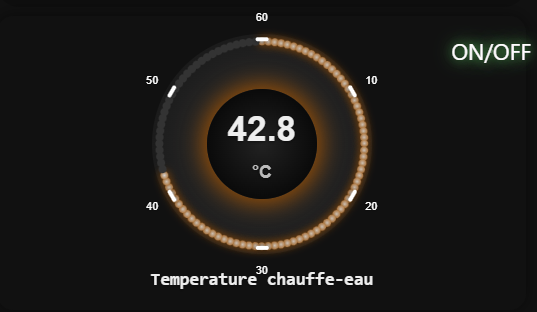
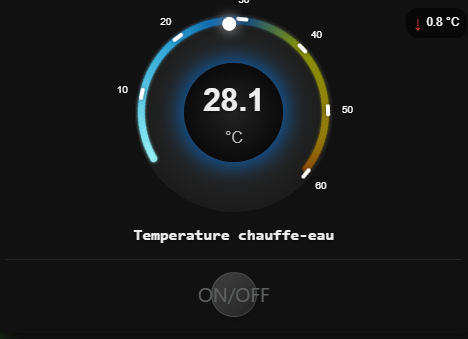
V2.6.0

diff --git a/custom-gauge-card.js b/custom-gauge-card.js
@@ -1,7 +1,14 @@
 /**
- * Custom Gauge Card v2.5.0
+ * Custom Gauge Card v2.6.0
  * Home Assistant custom card — LED gauge with arc control, bidirectional mode,
  * scale ticks, 4 buttons and full shadow support.
+ *
+ * Changelog v2.6 vs v2.5 (PR #20):
+ *   - NEW  led_display_mode: value | scale — `scale` keeps every LED lit with
+ *          the color of its position, a built-in cursor shows the value
+ *   - NEW  scale_marker, scale_marker_color, scale_marker_size, scale_marker_shape
+ *   - FIX  two dynamic markers on the same entity; unavailable markers hidden
+ *   - KEEP defaults render as 2.5
  *
  * Changelog v2.5 vs v2.4 (issue #19):
  *   - FIX  show_trend displayed nothing: the history websocket answer is keyed
@@ -51,7 +58,7 @@
 !function () {
   "use strict";
 
-  const CARD_VERSION = '2.5.0';
+  const CARD_VERSION = '2.6.0';
 
   // ── Themes ──────────────────────────────────────────────────────────────────
   const THEMES = {

diff --git a/README.md b/README.md
@@ -44,6 +44,11 @@ A custom card for Home Assistant that displays your sensors as an animated and i
 
 
 
+## What's new in v2.6
+
+- **Permanent color scale** — `led_display_mode: scale` keeps every LED lit with the color of its own position on the scale, and a built-in cursor shows the current value. Contributed by [Noxelot](https://github.com/Noxelot) in [PR #20](https://github.com/guiohm79/custom-gauge-card/pull/20). See [Permanent Color Scale](#permanent-color-scale-v26)
+- **Dynamic markers** — two markers can now track the same entity, and a marker whose entity is unavailable or non-numeric is hidden instead of staying at its last position
+
 ## What's new in v2.5
 
 - **Trend indicator fixed** — `show_trend: true` displayed nothing with recent Home Assistant versions; it now reads the history correctly ([issue #19](https://github.com/guiohm79/custom-gauge-card/issues/19))
@@ -80,6 +85,7 @@ A custom card for Home Assistant that displays your sensors as an animated and i
 - Dynamic shadow and lighting effects
 - Multi-entity alarms with four visual effects (pulsating shadow, blinking LEDs, blinking value, pulsating card border)
 - **Bidirectional display** for thermometer-style visualization with negative values
+- **Permanent color scale** with a value cursor (`led_display_mode: scale`)
 - Customizable themes (light, dark, custom)
 - Configurable arc span and start angle (`arc_sweep`, `arc_start`)
 
@@ -319,11 +325,50 @@ debounce_updates: true
 | `led_length` | number | `led_size × 2` | **v2.4:** `rect` only — radial length of the segments in pixels. Segments grow inward: their outer edge stays where round LEDs sit |
 | `led_corner_radius` | number | 1 | **v2.4:** `rect` only — corner rounding in pixels |
 | `leds_count` | number | 100 | Number of LEDs |
+| `led_display_mode` | string | `value` | **v2.6:** `value` lights the LEDs up to the current value; `scale` keeps them all lit as a permanent color scale, with a cursor on the value. See [Permanent Color Scale](#permanent-color-scale-v26) |
 | `bidirectional` | boolean | false | Enable bidirectional display (thermometer-style for negative values) |
 | `bidirectional_reference` | number | auto | **v2.5:** Bidirectional only — value the LEDs grow from, in the sensor unit. Default: 0 when it lies between `min` and `max`, otherwise the midpoint. Clamped to `[min, max]` |
 | `card_width` | string | `auto` | **NEW:** Width of the card container (e.g., "300px") |
 | `card_height` | string | `auto` | **NEW:** Height of the card container (e.g., "350px") |
 | `card_padding` | string | `16px` | **NEW:** Padding of the card container |
+
+### Permanent Color Scale (v2.6)
+
+With `led_display_mode: scale`, every LED stays lit with the color of its own position on the severity scale, whatever the current value. A built-in cursor shows the value on the ring and moves with the same transitions as the dynamic markers, on partial arcs and with `attribute` too.
+
+```yaml
+type: custom:custom-gauge-card
+entity: sensor.outdoor_pm25
+name: PM2.5
+min: 0
+max: 100
+leds_count: 40
+led_display_mode: scale
+severity_mode: gradient
+severity:
+  - color: '#4CAF50'
+    value: 0
+  - color: '#FFEB3B'
+    value: 35
+  - color: '#F44336'
+    value: 100
+scale_marker_color: '#FFFFFF'
+scale_marker_size: 12
+scale_marker_shape: round
+```
+
+| Option | Type | Default | Description |
+|--------|------|---------|-------------|
+| `scale_marker` | boolean | true | Show the built-in value cursor. `false` hides it, for example to use your own dynamic marker instead |
+| `scale_marker_color` | string | `#FFFFFF` | Cursor color |
+| `scale_marker_size` | number | 12 | Cursor size in pixels |
+| `scale_marker_shape` | string | `round` | `round`, `square` or `diamond` |
+
+- **Colors:** `severity_mode: steps` paints flat zones; `gradient` and `gradient_arc` both blend the colors along the ring and look the same in this mode.
+- **LED count:** with the default 100 LEDs of 8 px, neighboring LEDs overlap and the scale reads as a continuous band. Around 40 LEDs gives distinct dots.
+- **Dynamic markers** still work on top of the scale. A dynamic marker on the gauge entity is drawn in addition to the built-in cursor: remove it, or set `scale_marker: false`.
+- **Alarms:** `leds_blink` blinks the whole scale.
+- **Visual editor:** *Appearance* → *LED display mode* → **Always show colored scale**. The cursor settings appear right below.
 
 ### Themes
 
@@ -1502,38 +1547,5 @@ If you like this card, please:
 This project is licensed under the MIT License - see the LICENSE file for details.
 
 ---
-
-### Permanent LED color scale (`led_display_mode: scale`)
-
-Set `led_display_mode: scale` to keep every LED visible, colored according to its position on the severity scale rather than the current sensor value. The ordinary value-based LED fill remains the default.
-
-In scale mode, a **built-in value cursor is shown automatically** for the main entity. It uses the same position calculation and transitions as `dynamic_markers`, including for partial arcs and the selected primary attribute. Additional `dynamic_markers` are still supported.
-
-```yaml
-type: custom:custom-gauge-card
-entity: sensor.outdoor_pm25
-min: 0
-max: 100
-led_display_mode: scale
-severity_mode: gradient
-severity:
-  - color: '#4CAF50'
-    value: 0
-  - color: '#FFEB3B'
-    value: 35
-  - color: '#F44336'
-    value: 100
-# Optional built-in cursor styling:
-scale_marker: true          # default; false hides the built-in cursor
-scale_marker_color: '#FFFFFF'
-scale_marker_size: 12
-scale_marker_shape: round   # round | square | diamond
-```
-
-In the visual editor, choose **Always show colored scale** under *LED display mode*. The cursor can be styled or hidden there as well.
-
-**Existing scale configurations:** If a custom `dynamic_markers` entry already points to the main entity, it will appear *in addition to* the new built-in cursor. Remove that entry to use the new automatic cursor, or set `scale_marker: false` to preserve the custom marker and prevent overlap.
-
-The `leds_blink` alarm also works in scale mode, blinking all permanently illuminated LEDs.
 
 

diff --git a/README.fr.md b/README.fr.md
@@ -22,6 +22,7 @@ Une carte personnalisée pour Home Assistant qui affiche vos capteurs sous forme
 - Transitions fluides et douces entre les valeurs
 - Effets d'ombre et de lumière dynamiques
 - Alarmes multi-entités avec quatre effets visuels (ombre pulsante, LEDs clignotantes, valeur clignotante, bordure pulsante)
+- **Échelle de couleurs permanente** avec curseur de valeur (`led_display_mode: scale`)
 - Thèmes personnalisables (clair, sombre, personnalisé)
 
  **Zones et Marqueurs**
@@ -222,8 +223,47 @@ optimize_leds: true
 | `led_length` | number | `led_size × 2` | **v2.4 :** `rect` uniquement — longueur radiale des segments en pixels. Les segments s'allongent vers l'intérieur : leur bord extérieur reste à la place des LEDs rondes |
 | `led_corner_radius` | number | 1 | **v2.4 :** `rect` uniquement — arrondi des coins en pixels |
 | `leds_count` | number | 100 | Nombre de LEDs |
+| `led_display_mode` | string | `value` | **v2.6 :** `value` allume les LEDs jusqu'à la valeur actuelle ; `scale` les garde toutes allumées comme une échelle de couleurs permanente, avec un curseur sur la valeur. Voir [Échelle de couleurs permanente](#échelle-de-couleurs-permanente-v26) |
 | `bidirectional` | boolean | false | Mode bidirectionnel : les LEDs partent d'une valeur de référence, dans un sens au-dessus et dans l'autre en dessous |
 | `bidirectional_reference` | number | auto | **v2.5 :** Bidirectionnel uniquement — valeur d'où partent les LEDs, dans l'unité du capteur. Par défaut : 0 s'il est entre `min` et `max`, sinon le milieu. Ramenée dans `[min, max]`. La référence est placée à sa position proportionnelle sur l'arc : marqueurs, zones et graduations restent alignés |
+
+### Échelle de couleurs permanente (v2.6)
+
+Avec `led_display_mode: scale`, chaque LED reste allumée avec la couleur de sa propre position sur l'échelle des seuils, quelle que soit la valeur actuelle. Un curseur intégré indique la valeur sur l'anneau et se déplace avec les mêmes transitions que les marqueurs dynamiques, y compris sur un arc partiel et avec `attribute`.
+
+```yaml
+type: custom:custom-gauge-card
+entity: sensor.outdoor_pm25
+name: PM2.5
+min: 0
+max: 100
+leds_count: 40
+led_display_mode: scale
+severity_mode: gradient
+severity:
+  - color: '#4CAF50'
+    value: 0
+  - color: '#FFEB3B'
+    value: 35
+  - color: '#F44336'
+    value: 100
+scale_marker_color: '#FFFFFF'
+scale_marker_size: 12
+scale_marker_shape: round
+```
+
+| Option | Type | Défaut | Description |
+|--------|------|--------|-------------|
+| `scale_marker` | boolean | true | Affiche le curseur de valeur intégré. `false` le masque, par exemple pour utiliser votre propre marqueur dynamique |
+| `scale_marker_color` | string | `#FFFFFF` | Couleur du curseur |
+| `scale_marker_size` | number | 12 | Taille du curseur en pixels |
+| `scale_marker_shape` | string | `round` | `round` (rond), `square` (carré) ou `diamond` (losange) |
+
+- **Couleurs :** `severity_mode: steps` peint des zones unies ; `gradient` et `gradient_arc` fondent tous deux les couleurs le long de l'anneau et donnent le même rendu dans ce mode.
+- **Nombre de LEDs :** avec les 100 LEDs de 8 px par défaut, les LEDs voisines se chevauchent et l'échelle ressemble à une bande continue. Une quarantaine de LEDs donne des points séparés.
+- **Marqueurs dynamiques :** ils restent utilisables par-dessus l'échelle. Un marqueur dynamique sur l'entité de la jauge s'affiche en plus du curseur intégré : supprimez-le, ou mettez `scale_marker: false`.
+- **Alarmes :** `leds_blink` fait clignoter toute l'échelle.
+- **Éditeur visuel :** *Appearance* → *LED display mode* → **Always show colored scale**. Les réglages du curseur apparaissent juste en dessous.
 
 ### Thèmes
 

diff --git a/CHANGELOG.md b/CHANGELOG.md
@@ -5,6 +5,21 @@ All notable changes to this project will be documented in this file.
 The format is based on [Keep a Changelog](https://keepachangelog.com/en/1.0.0/),
 and this project adheres to [Semantic Versioning](https://semver.org/spec/v2.0.0.html).
 
+## [2.6.0] - 2026-11-11
+
+### Added
+- `led_display_mode: value | scale` - `scale` keeps every LED lit with the color of its own position on the severity scale, whatever the current value. `steps` paints flat zones, `gradient` and `gradient_arc` blend along the ring. Contributed by Noxelot ([PR #20](https://github.com/guiohm79/custom-gauge-card/pull/20))
+- Built-in value cursor in scale mode, positioned like a dynamic marker on the gauge entity (attribute and partial arcs included): `scale_marker` (default `true`), `scale_marker_color` (default `#FFFFFF`), `scale_marker_size` (default 12), `scale_marker_shape: round | square | diamond`
+- The `leds_blink` alarm blinks the whole scale in scale mode
+- All in the visual editor under "Appearance": the cursor fields appear once "Always show colored scale" is selected
+
+### Fixed
+- With two dynamic markers on the same entity, the first one stayed stuck at the top of the gauge
+- A dynamic marker whose entity is unavailable or non-numeric is hidden instead of staying at its last position
+
+### Unchanged
+- Without `led_display_mode` the gauge renders as 2.5. Dynamic markers now appear once their first value is read, instead of flashing at the top of the gauge
+
 ## [2.5.0] - 2026-11-08
 
 ### Fixed
